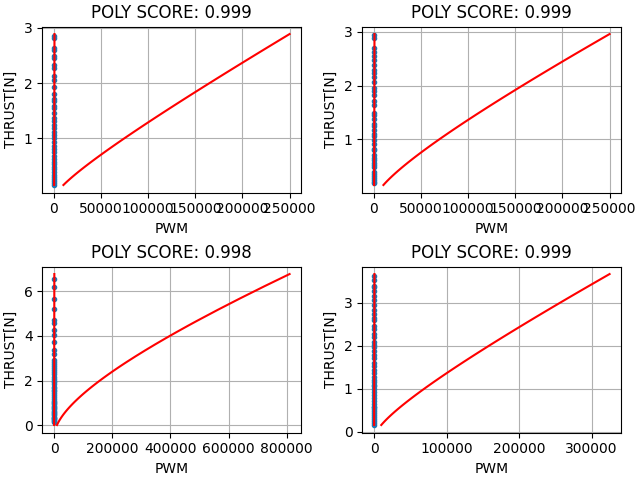
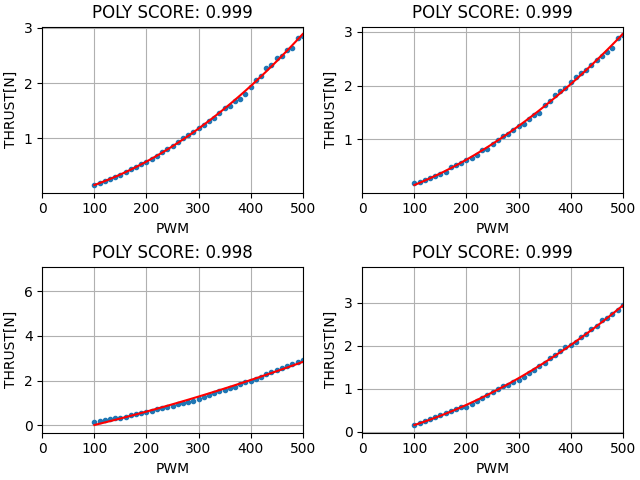
Regression score implemented

diff --git a/ACQUISITION/TEST_PWM_MOTORS/regression.py b/ACQUISITION/TEST_PWM_MOTORS/regression.py
@@ -56,6 +56,7 @@ def plot_motor_LR(data, ind):
     score = model.score(x, y)
     X_new = np.array([[100], [500]])
     y_pred = model.predict(X_new)
+    K = model.coef_
     plt.subplot(2,2,ind)
     plt.plot(x, y,'.')
     plt.plot(X_new, y_pred, color='red', label='Linear Regression')
@@ -63,6 +64,7 @@ def plot_motor_LR(data, ind):
     plt.ylabel('THRUST[N]')
     plt.title('LR SCORE: %.3f'%(score))
     plt.grid()
+    print('Motor'+str(ind)+'Poly coeff: '+str(K))
 
 def plot_motor_array_LR(data):
     fig, axes = plt.subplots(2,2, constrained_layout=True)
@@ -78,15 +80,19 @@ def plot_motor_POLY(data, ind):
     y = np.array(y).reshape(-1, 1)
     x_ = PolynomialFeatures(degree=2, include_bias=False).fit_transform(x)
     model = LinearRegression().fit(x_, y)
+    K = model.coef_
     score = model.score(x_, y)
-    y_pred = model.predict(x_)
+    y_pred = model.predict((x_))
     plt.subplot(2,2,ind)
     plt.plot(x, y,'.')
     plt.plot(x_, y_pred, color='red', label='Linear Regression')
     plt.xlabel('PWM')
     plt.ylabel('THRUST[N]')
     plt.title('POLY SCORE: %.3f'%(score))
+    ax = plt.gca()
+    ax.set_xlim([0,500])
     plt.grid()
+    print('Motor'+str(ind)+'Poly coeff: '+str(K))
 
 def plot_motor_array_POLY(data):
     fig, axes = plt.subplots(2,2, constrained_layout=True)
